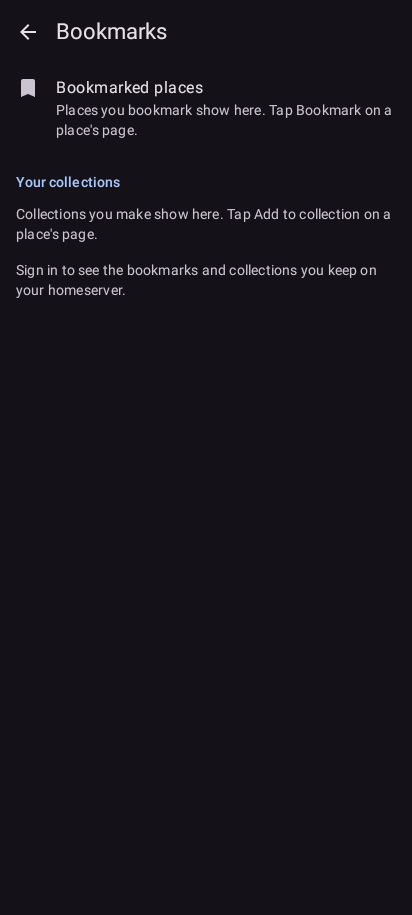
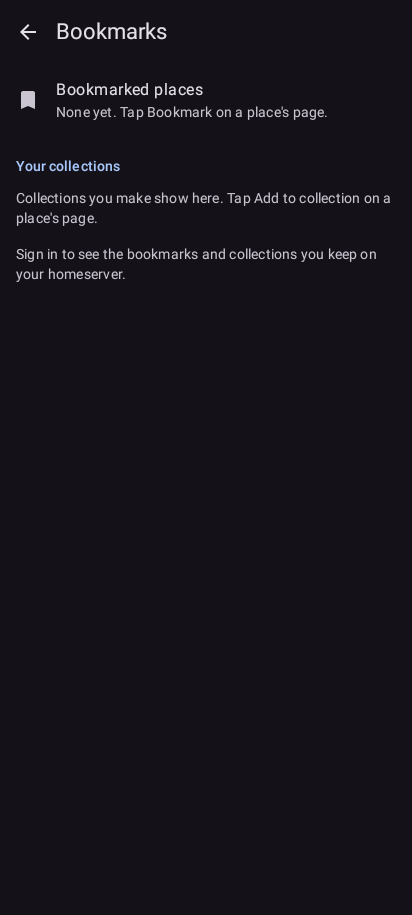
fix(bookmarks): review fixes on the bookmarks row and page
The bookmarked places page opens at its top each time, opening it drops a
collection kept from a restored screen, the empty row is one TalkBack stop
with a hint that fits a row, and a page emptied by a refresh says how to add
a bookmark (tested).

Changed region(s): [[0.0291, 0.0918, 0.9612, 0.3366], [0.0291, 0.0612, 0.0874, 0.1224]]

diff --git a/shared/src/commonMain/kotlin/to/pubky/maps/write/SavedScreen.kt b/shared/src/commonMain/kotlin/to/pubky/maps/write/SavedScreen.kt
@@ -71,11 +71,11 @@ private val MaxSavedWidth = 720.dp
 
 /**
  * The user's bookmarks and collections, from this phone's copy (refreshed from the homeserver when the
- * screen opens). The bookmarks are one row at the top, beside the collections, and open as their own
- * page ([BookmarkedPlacesPage]), as pubky.app's collections page has its Bookmarks card first and
- * Google Maps, CoMaps and OsmAnd keep starred places, bookmarks and favourites in a list among the
- * others: a long run of bookmarks no longer pushes the collections off the screen. A tap on a
- * collection opens its own page ([CollectionPage]); back (the arrow or the system back) returns here.
+ * screen opens). The bookmarks are one row above the collections and open as their own page
+ * ([BookmarkedPlacesPage]), as pubky.app's collections page has its Bookmarks card first and Google
+ * Maps, CoMaps and OsmAnd keep starred places, bookmarks and favourites in a list among the others,
+ * so a long run of bookmarks never pushes the collections off the screen. A tap on a collection opens
+ * its own page ([CollectionPage]); back (the arrow or the system back) returns here.
  * A tap on a place opens it on the map, with the name its row shows.
  */
 @OptIn(ExperimentalMaterial3Api::class)
@@ -98,9 +98,17 @@ fun SavedScreen(
         openList = null
         bookmarksOpen = false
     }
-    // Here, not in the pages, which leave while another is open: back finds each list where it was.
+    // Here, not in the overview, which leaves while a page is open: back finds it where it was.
     val overviewScroll = rememberLazyListState()
-    val bookmarksScroll = rememberLazyListState()
+    // Opening one page drops the other, also a collection kept from a restored screen.
+    val openBookmarks = {
+        openList = null
+        bookmarksOpen = true
+    }
+    val openCollection = { uri: String ->
+        bookmarksOpen = false
+        openList = uri
+    }
     Scaffold(
         topBar = {
             TopAppBar(
@@ -131,8 +139,8 @@ fun SavedScreen(
         Box(Modifier.fillMaxSize(), contentAlignment = Alignment.TopCenter) {
             when {
                 open != null -> CollectionPage(open, state, padding, onOpen)
-                bookmarksOpen -> BookmarkedPlacesPage(state, padding, bookmarksScroll, onOpen)
-                else -> BookmarksOverview(state, padding, overviewScroll, { bookmarksOpen = true }, { openList = it })
+                bookmarksOpen -> BookmarkedPlacesPage(state, padding, onOpen)
+                else -> BookmarksOverview(state, padding, overviewScroll, openBookmarks, openCollection)
             }
         }
     }
@@ -142,6 +150,8 @@ fun SavedScreen(
 private const val BOOKMARKED_PLACES = "Bookmarked places"
 
 private const val NO_BOOKMARKS_HINT = "Places you bookmark show here. Tap Bookmark on a place's page."
+
+private const val NO_BOOKMARKS_ROW = "None yet. Tap Bookmark on a place's page."
 
 /**
  * The Bookmarks page: one row for the bookmarks (how many, how many still wait to be sent), then the
@@ -162,9 +172,15 @@ private fun BookmarksOverview(
             val empty = state.places.isEmpty()
             ListItem(
                 headlineContent = { Text(BOOKMARKED_PLACES, maxLines = 1, overflow = TextOverflow.Ellipsis) },
-                supportingContent = { Text(if (empty) NO_BOOKMARKS_HINT else bookmarksFacts(state.places)) },
+                supportingContent = { Text(if (empty) NO_BOOKMARKS_ROW else bookmarksFacts(state.places)) },
                 leadingContent = { Icon(WriteIcons.Bookmark, contentDescription = null) },
-                modifier = if (empty) Modifier else Modifier.clickable(onClickLabel = "Open bookmarks", onClick = onOpenBookmarks),
+                // Read as one by TalkBack either way: a clickable row merges its texts, an empty one is told to.
+                modifier =
+                    if (empty) {
+                        Modifier.semantics(mergeDescendants = true) {}
+                    } else {
+                        Modifier.clickable(onClickLabel = "Open bookmarks", onClick = onOpenBookmarks)
+                    },
             )
         }
         item(key = "lists-title") { Title("Your collections") }
@@ -210,12 +226,11 @@ internal fun bookmarksFacts(places: List<SavedRow>): String {
 private fun BookmarkedPlacesPage(
     state: SavedScreenState,
     padding: PaddingValues,
-    scroll: LazyListState,
     onOpen: (place: String, name: String?) -> Unit,
 ) {
     val placesToTellApart = rowsToTellApart(state.places.map { RowText(it.place, it.name, it.summary) })
     val points = state.places.mapNotNull { row -> row.point?.let { row.place to it } }.toMap()
-    LazyColumn(state = scroll, contentPadding = padding, modifier = Modifier.widthIn(max = MaxSavedWidth).fillMaxWidth()) {
+    LazyColumn(contentPadding = padding, modifier = Modifier.widthIn(max = MaxSavedWidth).fillMaxWidth()) {
         if (state.refreshing) item(key = "refreshing") { LinearProgressIndicator(Modifier.fillMaxWidth()) }
         // Removed on another device while the page is open: the page stays and says how to add one.
         if (state.places.isEmpty()) {

diff --git a/androidApp/src/test/kotlin/to/pubky/maps/android/BookmarkedPlacesPageTest.kt b/androidApp/src/test/kotlin/to/pubky/maps/android/BookmarkedPlacesPageTest.kt
@@ -1,6 +1,9 @@
 package to.pubky.maps.android
 
 import androidx.activity.ComponentActivity
+import androidx.compose.runtime.getValue
+import androidx.compose.runtime.mutableStateOf
+import androidx.compose.runtime.setValue
 import androidx.compose.ui.test.assertCountEquals
 import androidx.compose.ui.test.assertHasNoClickAction
 import androidx.compose.ui.test.assertIsDisplayed
@@ -32,7 +35,7 @@ import to.pubky.maps.write.SavedScreen
 import to.pubky.maps.write.SavedScreenState
 
 /**
- * The bookmarks are one row of the Bookmarks page, beside the collections, as pubky.app's collections
+ * The bookmarks are one row of the Bookmarks page, above the collections, as pubky.app's collections
  * page has its Bookmarks card first and Google Maps, CoMaps and OsmAnd keep starred places, bookmarks
  * and favourites as a list among the lists; the row opens them as their own page, and back returns.
  */
@@ -133,10 +136,28 @@ class BookmarkedPlacesPageTest {
     }
 
     @Test
+    fun bookmarksRemovedWhileTheirPageIsOpenLeaveItSayingHowToAddOne() {
+        var shown by mutableStateOf(places)
+        compose.setContent {
+            PubkyMapsTheme {
+                SavedScreen(SavedScreenState(places = shown, lists = listOf(coffee)), onOpen = { _, _ -> }, onBack = {})
+            }
+        }
+        compose.onNodeWithText("Bookmarked places").performClick()
+        // Removed on another device; the next read of the homeserver drops them.
+        shown = emptyList()
+        compose.waitForIdle()
+        compose.onNode(hasText("Bookmarked places") and isHeading()).assertExists()
+        compose.onNodeWithText("Places you bookmark show here. Tap Bookmark on a place's page.").assertExists()
+        compose.onAllNodesWithText("Conditorei Schober").assertCountEquals(0)
+    }
+
+    @Test
     fun withoutBookmarksTheRowSaysHowToMakeOneAndOpensNothing() {
         show(places = emptyList())
-        compose.onNodeWithText("Places you bookmark show here. Tap Bookmark on a place's page.").assertExists()
-        compose.onNodeWithText("Bookmarked places").assertHasNoClickAction()
+        compose.onNodeWithText("None yet. Tap Bookmark on a place's page.").assertExists()
+        // One TalkBack stop, the row's name and its hint together, that opens nothing.
+        compose.onNode(hasText("Bookmarked places") and hasText("None yet.", substring = true)).assertHasNoClickAction()
         compose.onAllNodesWithText("0 places").assertCountEquals(1) // Sunday walks', not the bookmarks'
     }
 
